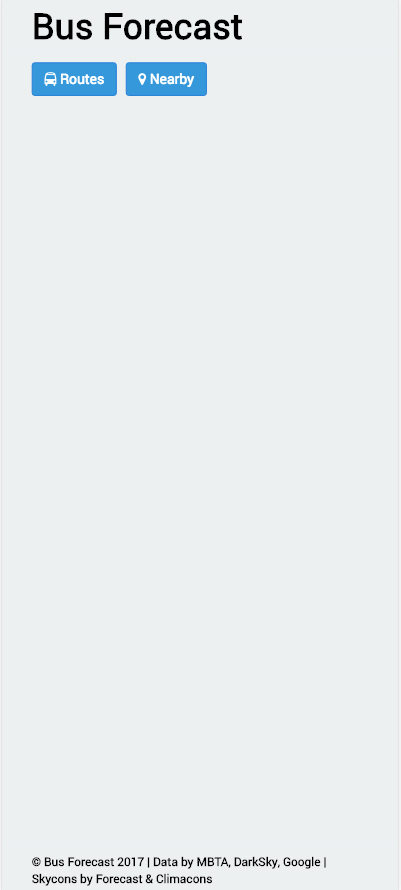
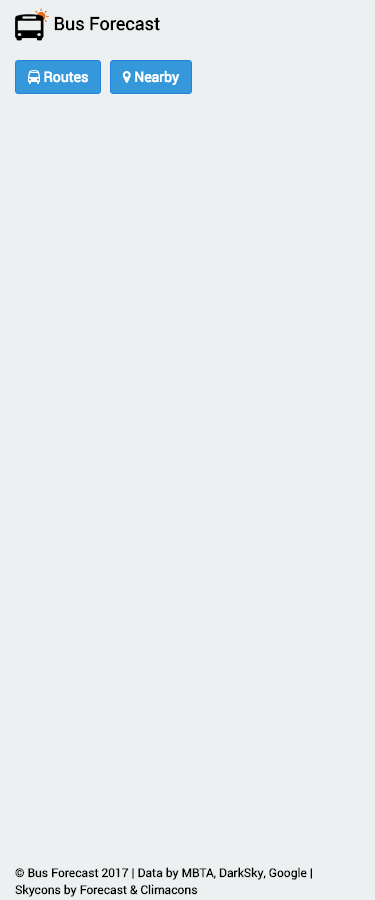
wip-refactoring

Changed region(s): [[0.0293, 0.0, 0.616, 0.1213], [0.0293, 0.9404, 0.5573, 1.0], [0.5867, 0.9404, 0.8213, 1.0]]

diff --git a/index.html b/index.html
@@ -52,10 +52,6 @@
     </nav>
 
     <section id="bus-stop-info" class="row" role="main">
-      <div class="route-map-container col-sm-6 ">
-        <div class="route-map"></div>
-        <div class="map-stop-location"></div>
-      </div>
       <div class="bus-container col-sm-6">
         <div id="cd-timeline" class="cd-container">
           <div class="error-catch-message"></div>
@@ -63,6 +59,10 @@
             <h5>Stops</h5></div>
           <ul class="list-group bus-stop-list"></ul>
         </div>
+      </div>
+      <div class="route-map-container col-sm-6 ">
+        <div class="route-map"></div>
+        <div class="map-stop-location"></div>
       </div>
     </section>
 

diff --git a/css/main.css b/css/main.css
@@ -88,9 +88,9 @@ h6 {
 
 }
 @media (min-width: 700px) {
-  .route-map-container.col-sm-6 {
+  /*.route-map-container.col-sm-6 {
     float: right;
-  }
+  }*/
   .direction-opt {
     float: none;
   }
